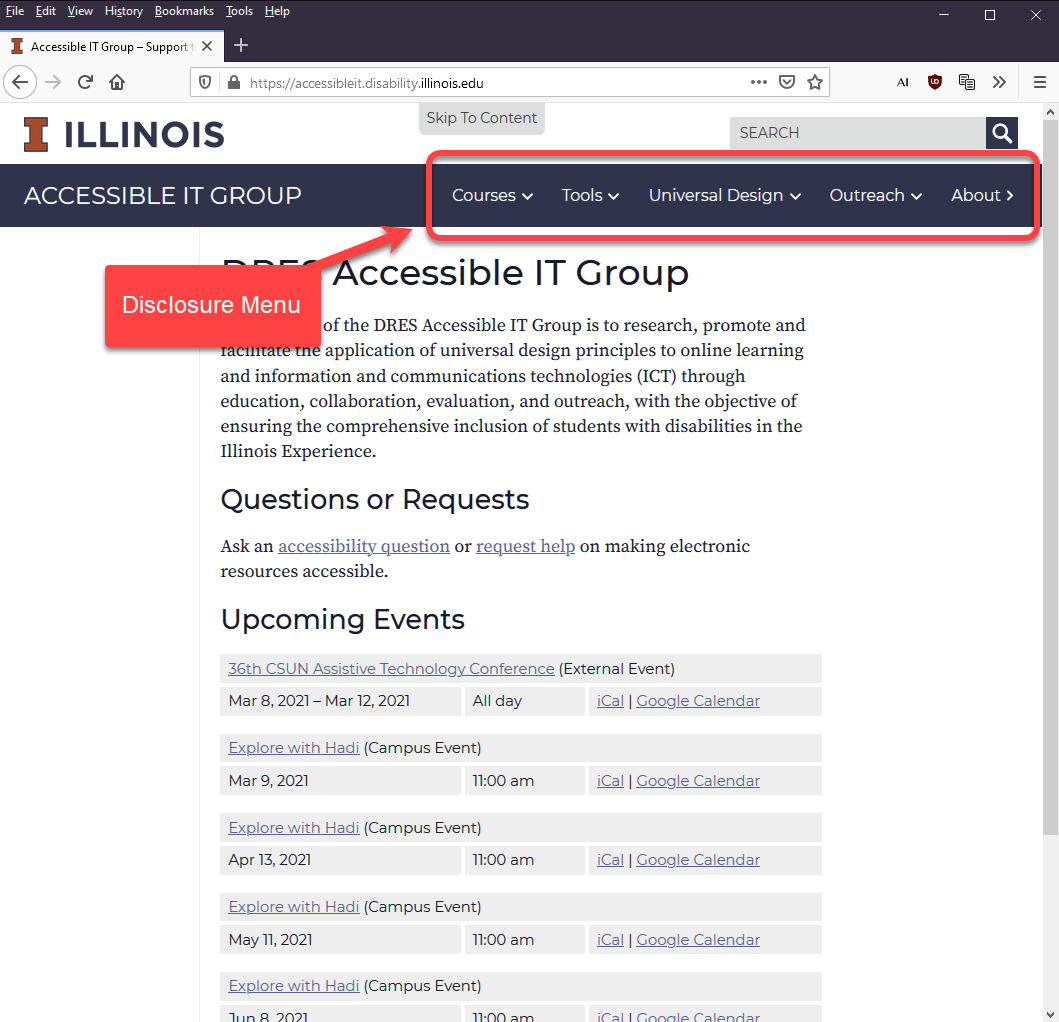
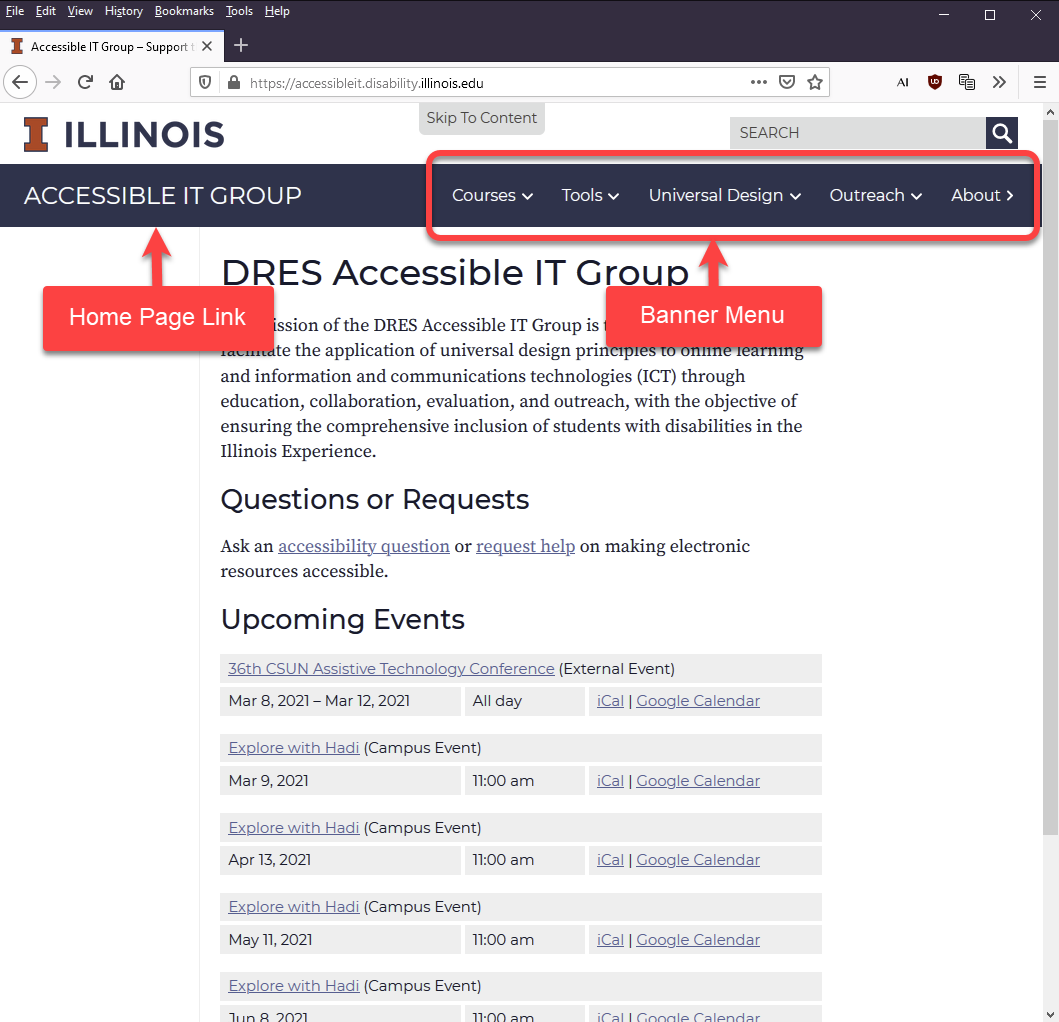
updated slides

Changed region(s): [[0.0312, 0.2123, 0.4051, 0.364], [0.5609, 0.2427, 0.779, 0.364]]

diff --git a/2021-03-menu/slide9.html b/2021-03-menu/slide9.html
@@ -3,7 +3,7 @@
 <html lang="en">
    <head>
       <meta http-equiv="Content-Type" content="text/html; charset=UTF-8">
-      <title>Slide 9: Questions and Discussion</title>
+      <title>Slide 9: Update on SkipTo.js: CDN and default configuration</title>
       <link rel="stylesheet" type="text/css" href="../css/bootstrap.min.css">
       <link rel="stylesheet" type="text/css" href="../css/bootstrap-theme.min.css">
       <link rel="stylesheet" type="text/css" href="../css/bootstrap-accessibility.css">
@@ -26,15 +26,15 @@
                   <li><a id="ID_SLIDE_PREVIOUS" href="slide8.html" title="Slide 8">
                         Previous
                       </a></li>
-                  <li class="disabled"><a id="ID_SLIDE_NEXT" href="#" title="On Last Slide">
+                  <li><a id="ID_SLIDE_NEXT" href="slide10.html" title="Slide 10">
                         Next
                       </a></li>
-                  <li class="disabled"><a id="ID_SLIDE_LAST" href="#" name="On Last Slide">
+                  <li><a id="ID_SLIDE_LAST" href="slide10.html" title="Slide 10">
                         Last
                       </a></li>
                </ul>
                <ul class="nav navbar-nav pull-right">
-                  <li class="nav navbar-text">Slide 9 of 9</li>
+                  <li class="nav navbar-text">Slide 9 of 10</li>
                </ul>
             </div>
          </div>
@@ -43,7 +43,28 @@
          <div class="row">
             <div class="col-md-1"></div>
             <div class="col-md-9">
-               <h1 id="h1_title" class="title">Questions and Discussion</h1>
+               <h1 id="h1_title" class="title">Update on SkipTo.js: CDN and default configuration</h1>
+               <ul>
+                  <li>Referencing the <code>SkipTo.js</code> script:
+          <ul>
+                        <li>Include a reference to the CDN version of the script: <a target="_code" href="https://cdn.disability.illinois.edu/skipto.min.js">https://cdn.disability.illinois.edu/skipto.min.js</a>.</li>
+                        <li>Alternatively you can include reference a local copy of the <a href="https://github.com/a11y-tools/skipto/tree/master/compiled/js" target="_code"><code>skipto.min.js</code></a> script in the page or page template.</li>
+                     </ul>
+                  </li>
+                  <li>Changes to default configuration:
+          <ul>
+                        <li>The "Action menu items" are now disabled by default.</li>
+                     </ul>
+                  </li>
+                  <li>Tooltip appears on keyboard focus in addition to pointer hover on shortcut key information.</li>
+                  <li>Websites using SkipTo.js on campus:
+          <ul>
+                        <li><a href="https://accessibleit.disability.illinois.edu/" target="example">DRES Accessible IT Group</a></li>
+                        <li><a href="https://ahs.illinois.edu/" target="example">College of Applied Health Sciences</a></li>
+                        <li><a href="https://rslater.web.illinois.edu/">Tutoring at Illinois</a></li>
+                     </ul>
+                  </li>
+               </ul>
             </div>
             <div class="col"></div>
          </div>

diff --git a/2021-03-menu/slide8.html b/2021-03-menu/slide8.html
@@ -3,7 +3,7 @@
 <html lang="en">
    <head>
       <meta http-equiv="Content-Type" content="text/html; charset=UTF-8">
-      <title>Slide 8: Update on SkipTo.js: CDN and default configuration</title>
+      <title>Slide 8: Support for Campus Accessible Menu Development</title>
       <link rel="stylesheet" type="text/css" href="../css/bootstrap.min.css">
       <link rel="stylesheet" type="text/css" href="../css/bootstrap-theme.min.css">
       <link rel="stylesheet" type="text/css" href="../css/bootstrap-accessibility.css">
@@ -29,12 +29,12 @@
                   <li><a id="ID_SLIDE_NEXT" href="slide9.html" title="Slide 9">
                         Next
                       </a></li>
-                  <li><a id="ID_SLIDE_LAST" href="slide9.html" title="Slide 9">
+                  <li><a id="ID_SLIDE_LAST" href="slide10.html" title="Slide 10">
                         Last
                       </a></li>
                </ul>
                <ul class="nav navbar-nav pull-right">
-                  <li class="nav navbar-text">Slide 8 of 9</li>
+                  <li class="nav navbar-text">Slide 8 of 10</li>
                </ul>
             </div>
          </div>
@@ -43,26 +43,9 @@
          <div class="row">
             <div class="col-md-1"></div>
             <div class="col-md-9">
-               <h1 id="h1_title" class="title">Update on SkipTo.js: CDN and default configuration</h1>
+               <h1 id="h1_title" class="title">Support for Campus Accessible Menu Development</h1>
                <ul>
-                  <li>Referencing the <code>SkipTo.js</code> script:
-          <ul>
-                        <li>Include a reference to the CDN version of the script: <a target="_code" href="https://cdn.disability.illinois.edu/skipto.min.js">https://cdn.disability.illinois.edu/skipto.min.js</a>.</li>
-                        <li>Alternatively you can include reference a local copy of the <a href="https://github.com/a11y-tools/skipto/tree/master/compiled/js" target="_code"><code>skipto.min.js</code></a> script in the page or page template.</li>
-                     </ul>
-                  </li>
-                  <li>Changes to default configuration:
-          <ul>
-                        <li>The "Action menu items" are now disabled by default.</li>
-                     </ul>
-                  </li>
-                  <li>Tooltip appears on keyboard focus in addition to pointer hover on shortcut key information.</li>
-                  <li>Websites using SkipTo.js on campus:
-          <ul>
-                        <li><a href="https://accessibleit.disability.illinois.edu/" target="example">DRES Accessible IT Group</a></li>
-                        <li><a href="https://ahs.illinois.edu/" target="example">College of Applied Health Sciences</a></li>
-                     </ul>
-                  </li>
+                  <li></li>
                </ul>
             </div>
             <div class="col"></div>

diff --git a/2021-03-menu/slide10.html b/2021-03-menu/slide10.html
@@ -3,7 +3,7 @@
 <html lang="en">
    <head>
       <meta http-equiv="Content-Type" content="text/html; charset=UTF-8">
-      <title>Slide 7: WordPress Menu Configuration</title>
+      <title>Slide 10: Questions and Discussion</title>
       <link rel="stylesheet" type="text/css" href="../css/bootstrap.min.css">
       <link rel="stylesheet" type="text/css" href="../css/bootstrap-theme.min.css">
       <link rel="stylesheet" type="text/css" href="../css/bootstrap-accessibility.css">
@@ -23,18 +23,18 @@
                   <li><a id="ID_SLIDE_FIRST" href="slide1.html" title="Slide 1">
                         First
                       </a></li>
-                  <li><a id="ID_SLIDE_PREVIOUS" href="slide6.html" title="Slide 6">
+                  <li><a id="ID_SLIDE_PREVIOUS" href="slide9.html" title="Slide 9">
                         Previous
                       </a></li>
-                  <li><a id="ID_SLIDE_NEXT" href="slide8.html" title="Slide 8">
+                  <li class="disabled"><a id="ID_SLIDE_NEXT" href="#" title="On Last Slide">
                         Next
                       </a></li>
-                  <li><a id="ID_SLIDE_LAST" href="slide10.html" title="Slide 10">
+                  <li class="disabled"><a id="ID_SLIDE_LAST" href="#" name="On Last Slide">
                         Last
                       </a></li>
                </ul>
                <ul class="nav navbar-nav pull-right">
-                  <li class="nav navbar-text">Slide 7 of 10</li>
+                  <li class="nav navbar-text">Slide 10 of 10</li>
                </ul>
             </div>
          </div>
@@ -43,8 +43,7 @@
          <div class="row">
             <div class="col-md-1"></div>
             <div class="col-md-9">
-               <h1 id="h1_title" class="title">WordPress Menu Configuration</h1>
-               <p class="center"><img src="menu-configuration.png" alt="screen shot of the menu configuration interface of WordPress"></p>
+               <h1 id="h1_title" class="title">Questions and Discussion</h1>
             </div>
             <div class="col"></div>
          </div>

diff --git a/2021-03-menu/slide2.html b/2021-03-menu/slide2.html
@@ -3,7 +3,7 @@
 <html lang="en">
    <head>
       <meta http-equiv="Content-Type" content="text/html; charset=UTF-8">
-      <title>Slide 2: WordPress Menu Configuration</title>
+      <title>Slide 2: WordPress Banner Menu</title>
       <link rel="stylesheet" type="text/css" href="../css/bootstrap.min.css">
       <link rel="stylesheet" type="text/css" href="../css/bootstrap-theme.min.css">
       <link rel="stylesheet" type="text/css" href="../css/bootstrap-accessibility.css">
@@ -29,12 +29,12 @@
                   <li><a id="ID_SLIDE_NEXT" href="slide3.html" title="Slide 3">
                         Next
                       </a></li>
-                  <li><a id="ID_SLIDE_LAST" href="slide9.html" title="Slide 9">
+                  <li><a id="ID_SLIDE_LAST" href="slide10.html" title="Slide 10">
                         Last
                       </a></li>
                </ul>
                <ul class="nav navbar-nav pull-right">
-                  <li class="nav navbar-text">Slide 2 of 9</li>
+                  <li class="nav navbar-text">Slide 2 of 10</li>
                </ul>
             </div>
          </div>
@@ -43,8 +43,8 @@
          <div class="row">
             <div class="col-md-1"></div>
             <div class="col-md-9">
-               <h1 id="h1_title" class="title">WordPress Menu Configuration</h1>
-               <p>Website with Disclosure Menu: <a href="https://accessibleit.disability.illinois.edu/">DRES Accessible IT Group Website</a></p>
+               <h1 id="h1_title" class="title">WordPress Banner Menu</h1>
+               <p>WordPress Banner Menu: <a href="https://accessibleit.disability.illinois.edu/">DRES Accessible IT Group Website</a></p>
                <p class="center"><img src="accessible-it-group-home-page.png" alt="screen shot of the DRES accessible IT griup home page with disclosure menu"></p>
             </div>
             <div class="col"></div>

diff --git a/2021-03-menu/index.html b/2021-03-menu/index.html
@@ -29,7 +29,7 @@
                   <li><a id="ID_SLIDE_NEXT" href="slide1.html" title="Slide 1">
                         Next
                       </a></li>
-                  <li><a id="ID_SLIDE_LAST" href="slide9.html" title="Slide 9">
+                  <li><a id="ID_SLIDE_LAST" href="slide10.html" title="Slide 10">
                         Last
                       </a></li>
                </ul>
@@ -69,14 +69,15 @@
           </h2>
          <ol>
             <li class="index"><a href="slide1.html" class="index">Overview</a></li>
-            <li class="index"><a href="slide2.html" class="index">WordPress Menu Configuration</a></li>
+            <li class="index"><a href="slide2.html" class="index">WordPress Banner Menu</a></li>
             <li class="index"><a href="slide3.html" class="index">Design Considerations</a></li>
             <li class="index"><a href="slide4.html" class="index">WCAG Requirements related to Navigation Menus</a></li>
             <li class="index"><a href="slide5.html" class="index">Keyboard Support</a></li>
             <li class="index"><a href="slide6.html" class="index">HTML Markup from WordPress</a></li>
             <li class="index"><a href="slide7.html" class="index">WordPress Menu Configuration</a></li>
-            <li class="index"><a href="slide8.html" class="index">Update on SkipTo.js: CDN and default configuration</a></li>
-            <li class="index"><a href="slide9.html" class="index">Questions and Discussion</a></li>
+            <li class="index"><a href="slide8.html" class="index">Support for Campus Accessible Menu Development</a></li>
+            <li class="index"><a href="slide9.html" class="index">Update on SkipTo.js: CDN and default configuration</a></li>
+            <li class="index"><a href="slide10.html" class="index">Questions and Discussion</a></li>
          </ol>
       </main>
       <footer class="container">

diff --git a/2021-03-menu/slide5.html b/2021-03-menu/slide5.html
@@ -29,12 +29,12 @@
                   <li><a id="ID_SLIDE_NEXT" href="slide6.html" title="Slide 6">
                         Next
                       </a></li>
-                  <li><a id="ID_SLIDE_LAST" href="slide9.html" title="Slide 9">
+                  <li><a id="ID_SLIDE_LAST" href="slide10.html" title="Slide 10">
                         Last
                       </a></li>
                </ul>
                <ul class="nav navbar-nav pull-right">
-                  <li class="nav navbar-text">Slide 5 of 9</li>
+                  <li class="nav navbar-text">Slide 5 of 10</li>
                </ul>
             </div>
          </div>
@@ -46,9 +46,9 @@
                <h1 id="h1_title" class="title">Keyboard Support</h1>
                <h2>ARIA Patterns for Menus</h2>
                <ul>
-                  <li><a href=""></a></li>
-                  <li><a href=""></a></li>
-                  <li><a href=""></a></li>
+                  <li><a href="https://w3c.github.io/aria-practices/#disclosure">ARIA Disclosure Pattern</a> (Most popular for navigation menus)</li>
+                  <li><a href="https://w3c.github.io/aria-practices/#menu">ARIA Menubar Pattern</a></li>
+                  <li><a href="https://w3c.github.io/aria-practices/#TreeView">ARIA Treeview Pattern</a></li>
                </ul>
                <h2 id="id-key-prim">Primary Keyboard Commands</h2>
                <p id="id-desc-prim">Primary keyboard commands are the keyboard commands that are supported by the native HTML semantics and the ARIA markup for the menu items.</p>

diff --git a/2021-03-menu/slide4.html b/2021-03-menu/slide4.html
@@ -29,12 +29,12 @@
                   <li><a id="ID_SLIDE_NEXT" href="slide5.html" title="Slide 5">
                         Next
                       </a></li>
-                  <li><a id="ID_SLIDE_LAST" href="slide9.html" title="Slide 9">
+                  <li><a id="ID_SLIDE_LAST" href="slide10.html" title="Slide 10">
                         Last
                       </a></li>
                </ul>
                <ul class="nav navbar-nav pull-right">
-                  <li class="nav navbar-text">Slide 4 of 9</li>
+                  <li class="nav navbar-text">Slide 4 of 10</li>
                </ul>
             </div>
          </div>
@@ -79,7 +79,7 @@
               <a href="https://www.w3.org/TR/WCAG21/#name-role-value" target="_spec">4.1.2 Name, Role, Value</a>
             </td>
                         <td>A</td>
-                        <td>The buttons to show the popup links use the <code>button</code> role and the <code>aria-expanded</code> attribute.</td>
+                        <td>The controls used to open and close the submenu links use the <code>button</code> role and the <code>aria-expanded</code> and <code>aria-controls</code> attributes.</td>
                      </tr>
                      <tr>
                         <td scope="row">

diff --git a/2021-03-menu/slide1.html b/2021-03-menu/slide1.html
@@ -29,12 +29,12 @@
                   <li><a id="ID_SLIDE_NEXT" href="slide2.html" title="Slide 2">
                         Next
                       </a></li>
-                  <li><a id="ID_SLIDE_LAST" href="slide9.html" title="Slide 9">
+                  <li><a id="ID_SLIDE_LAST" href="slide10.html" title="Slide 10">
                         Last
                       </a></li>
                </ul>
                <ul class="nav navbar-nav pull-right">
-                  <li class="nav navbar-text">Slide 1 of 9</li>
+                  <li class="nav navbar-text">Slide 1 of 10</li>
                </ul>
             </div>
          </div>

diff --git a/2021-03-menu/slide3.html b/2021-03-menu/slide3.html
@@ -29,12 +29,12 @@
                   <li><a id="ID_SLIDE_NEXT" href="slide4.html" title="Slide 4">
                         Next
                       </a></li>
-                  <li><a id="ID_SLIDE_LAST" href="slide9.html" title="Slide 9">
+                  <li><a id="ID_SLIDE_LAST" href="slide10.html" title="Slide 10">
                         Last
                       </a></li>
                </ul>
                <ul class="nav navbar-nav pull-right">
-                  <li class="nav navbar-text">Slide 3 of 9</li>
+                  <li class="nav navbar-text">Slide 3 of 10</li>
                </ul>
             </div>
          </div>

diff --git a/2021-03-menu/slide6.html b/2021-03-menu/slide6.html
@@ -29,12 +29,12 @@
                   <li><a id="ID_SLIDE_NEXT" href="slide7.html" title="Slide 7">
                         Next
                       </a></li>
-                  <li><a id="ID_SLIDE_LAST" href="slide9.html" title="Slide 9">
+                  <li><a id="ID_SLIDE_LAST" href="slide10.html" title="Slide 10">
                         Last
                       </a></li>
                </ul>
                <ul class="nav navbar-nav pull-right">
-                  <li class="nav navbar-text">Slide 6 of 9</li>
+                  <li class="nav navbar-text">Slide 6 of 10</li>
                </ul>
             </div>
          </div>
